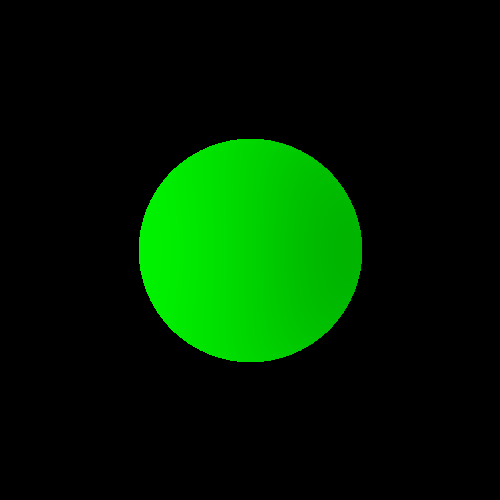
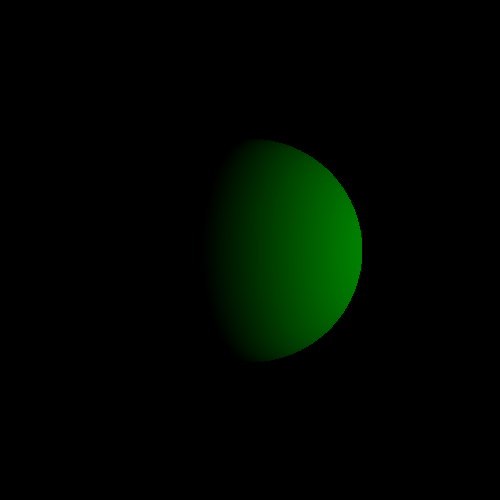
FINISHED

Changed region(s): [[0.27, 0.27, 0.75, 0.75]]

diff --git a/HW4/ray_tracer/util.py b/HW4/ray_tracer/util.py
@@ -62,20 +62,19 @@ class Sphere(object):
         self.green = green
         self.blue = blue
         self.p = p
+    def __repr__(self):
+        return "v: {} r: {}".format(self.v, self.r)
         
     def getIntersect(self, ray):
         A = ray.slope.dotProduct(ray.slope)
         B = 2 * ( (ray.origin - self.v).dotProduct(ray.slope))
         C = (ray.origin - self.v).dotProduct(ray.origin - self.v) - self.r**2
-        discriminant = B**2 - 4*A*C
-        
+        discriminant = B*B - 4*A*C
+        #print(discriminant)
         if discriminant < 0:
             return None
-        closestSol = min(-B+sqrt(discriminant)/(2*A), -B-sqrt(discriminant)/(2*A))
-        if closestSol < -.0001:
-            return None
-        else:
-            return ray.getLocation(closestSol)
-    def getNormalVector(self, v):
-        return (v - self.v).normalize()
+        candidates = [(-B+sqrt(discriminant))/(2*A), (-B-sqrt(discriminant))/(2*A)]
+        closestSol = min(candidates)
+        #print("A: {} B: {} C: {} SOL: {}".format(A,B,C, closestSol))
+        return ray.getLocation(closestSol)
     
